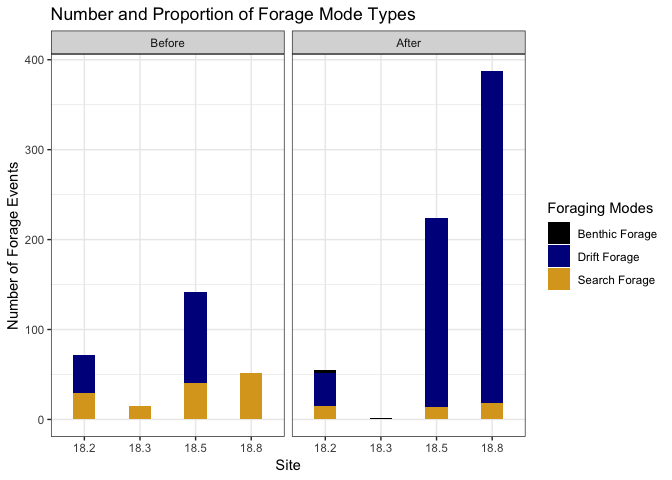
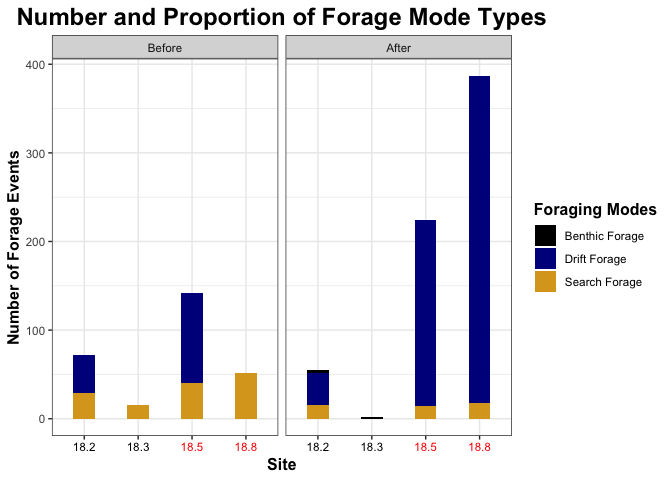
sdf

diff --git a/SRF-VidSync.md b/SRF-VidSync.md
@@ -904,8 +904,8 @@ Forage_Types_Plot <-
   ggtitle("Number and Proportion of Forage Mode Types") +
   scale_fill_manual(values = c("black", "darkblue", "goldenrod")) +
   guides(fill=guide_legend(title="Foraging Modes")) +
-  theme(legend.title = element_text(size = 12, face = "bold"), plot.title = element_text(size = 18, face = "bold", hjust = 0.5), axis.title.x = element_text(size = 12, face = "bold"), axis.title.y = element_text(size = 12, face = "bold")) +
-  theme_bw()
+  theme_bw() +
+  theme(legend.title = element_text(size = 12, face = "bold"), plot.title = element_text(size = 18, face = "bold", hjust = 0.5), axis.title.x = element_text(size = 12, face = "bold"), axis.title.y = element_text(size = 12, face = "bold"), axis.text.x = element_text(colour = c("black", "black", "red", "red", "black", "black", "red", "red")))
 Forage_Types_Plot
 ```
 
